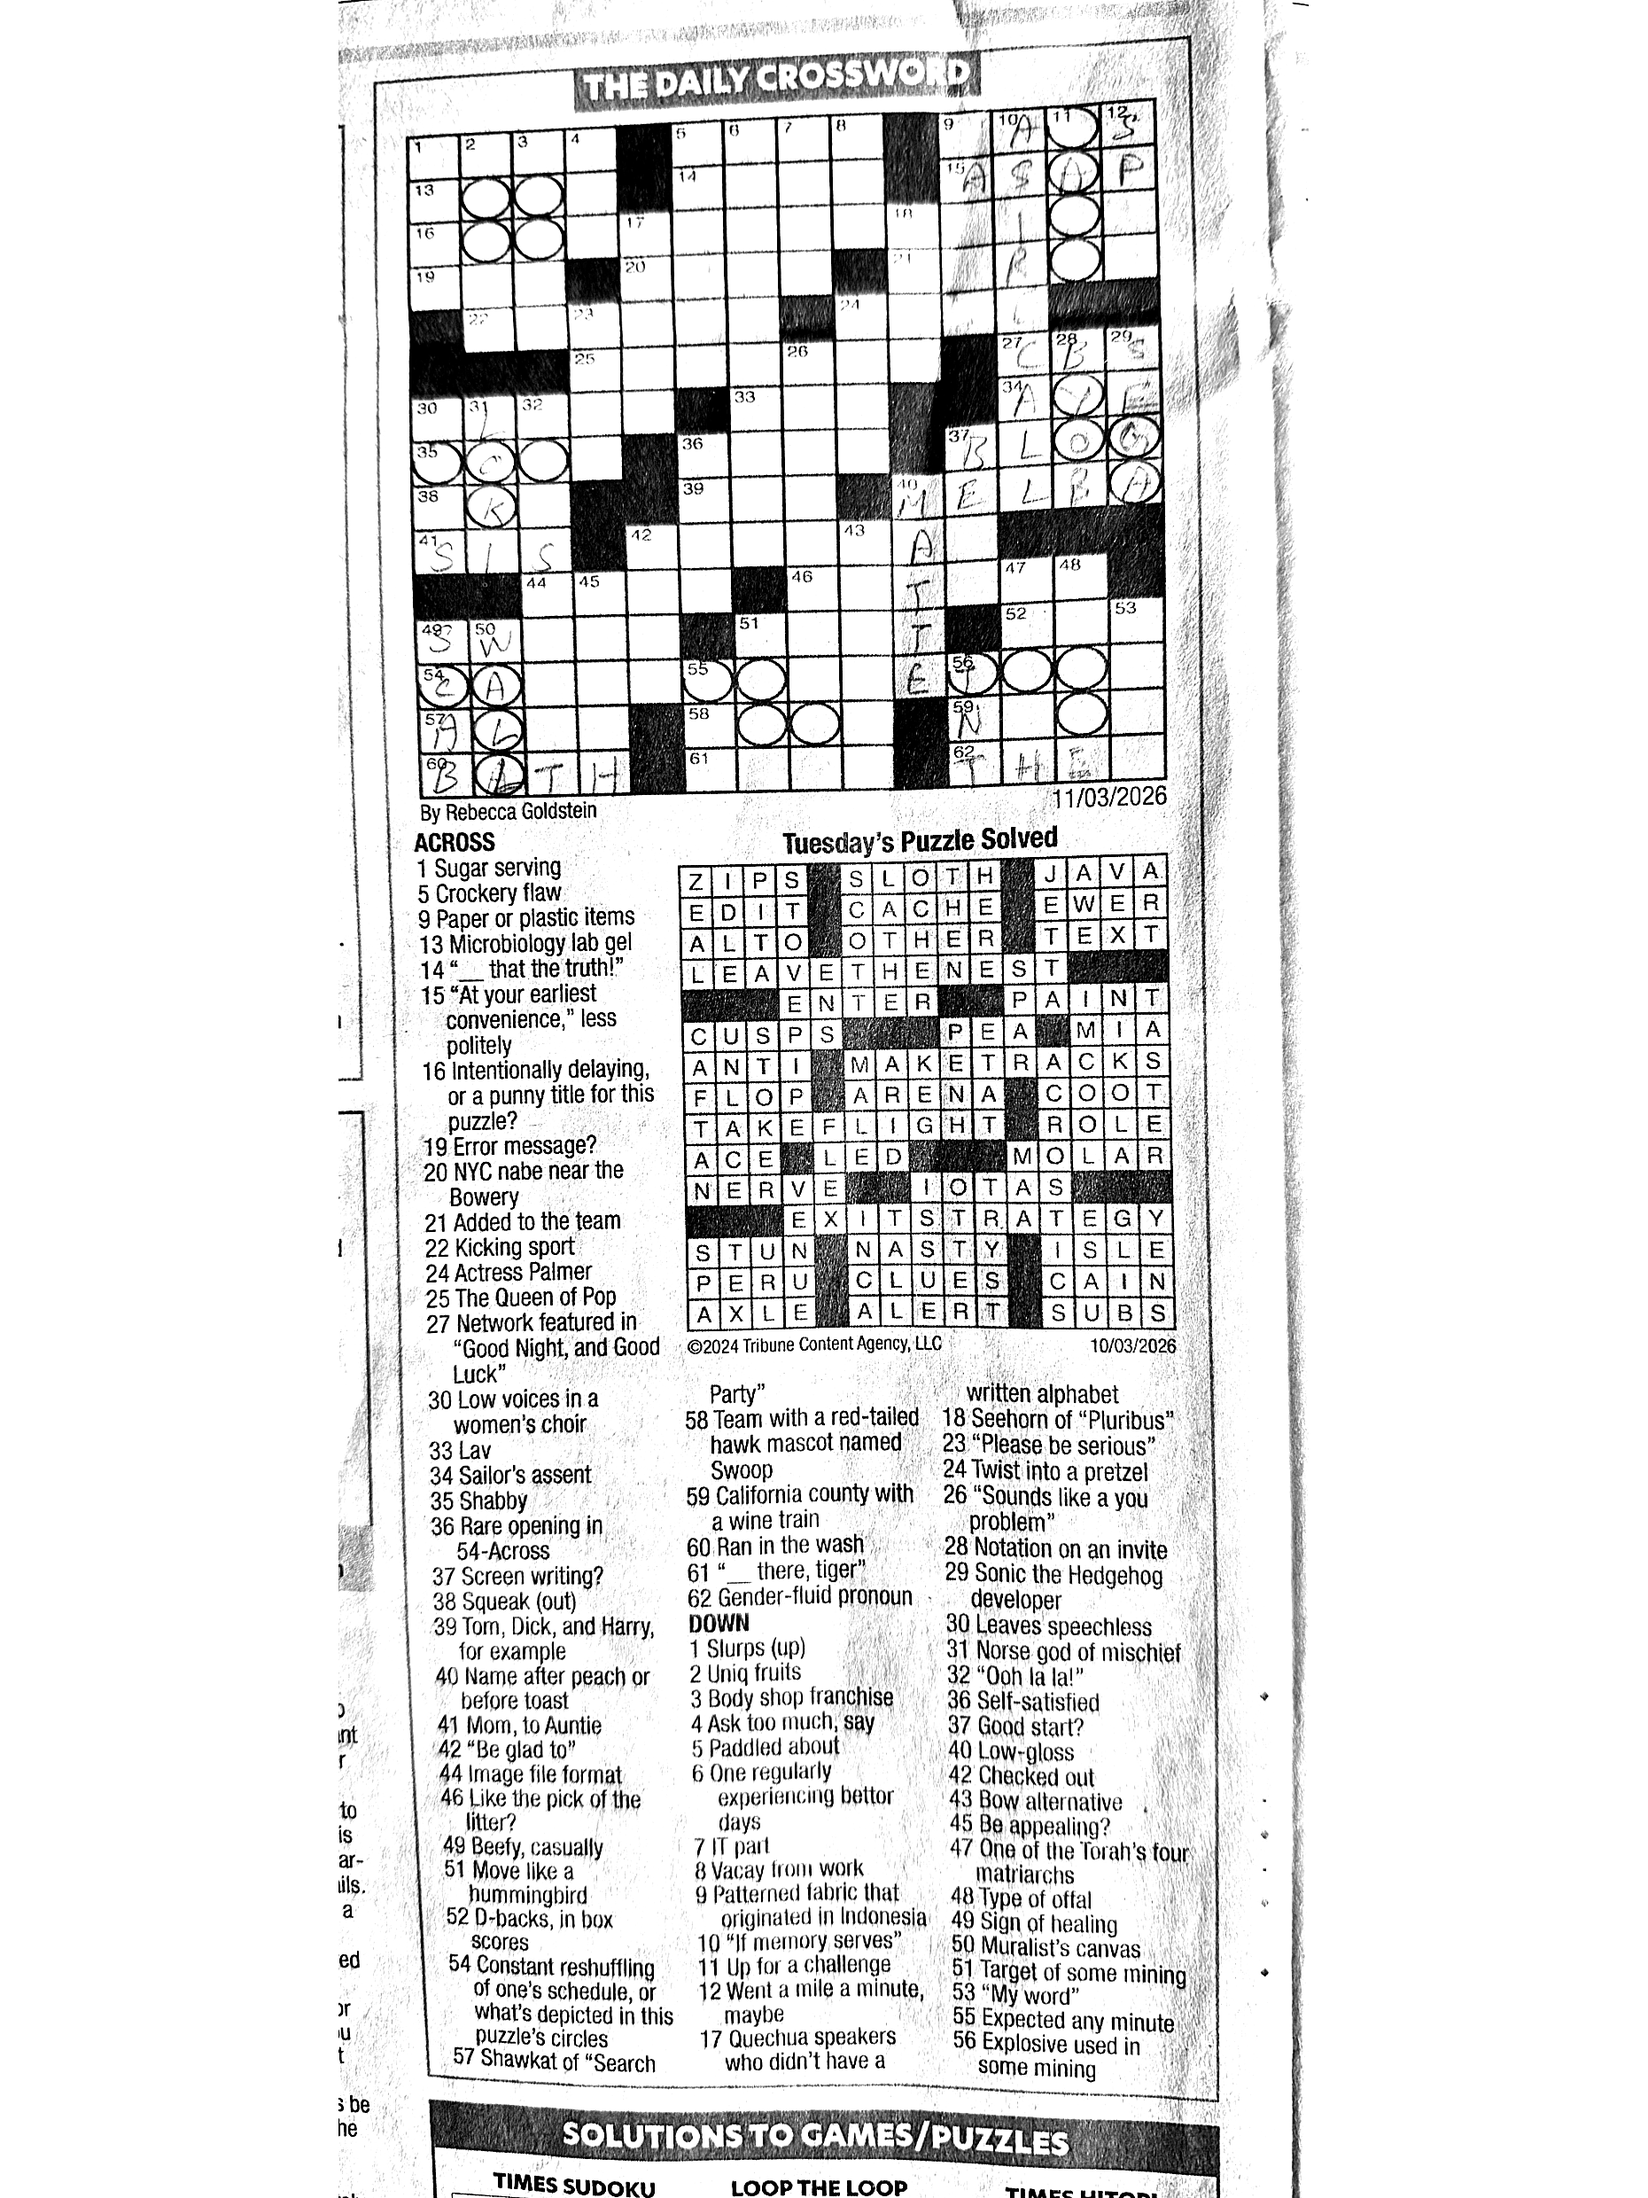
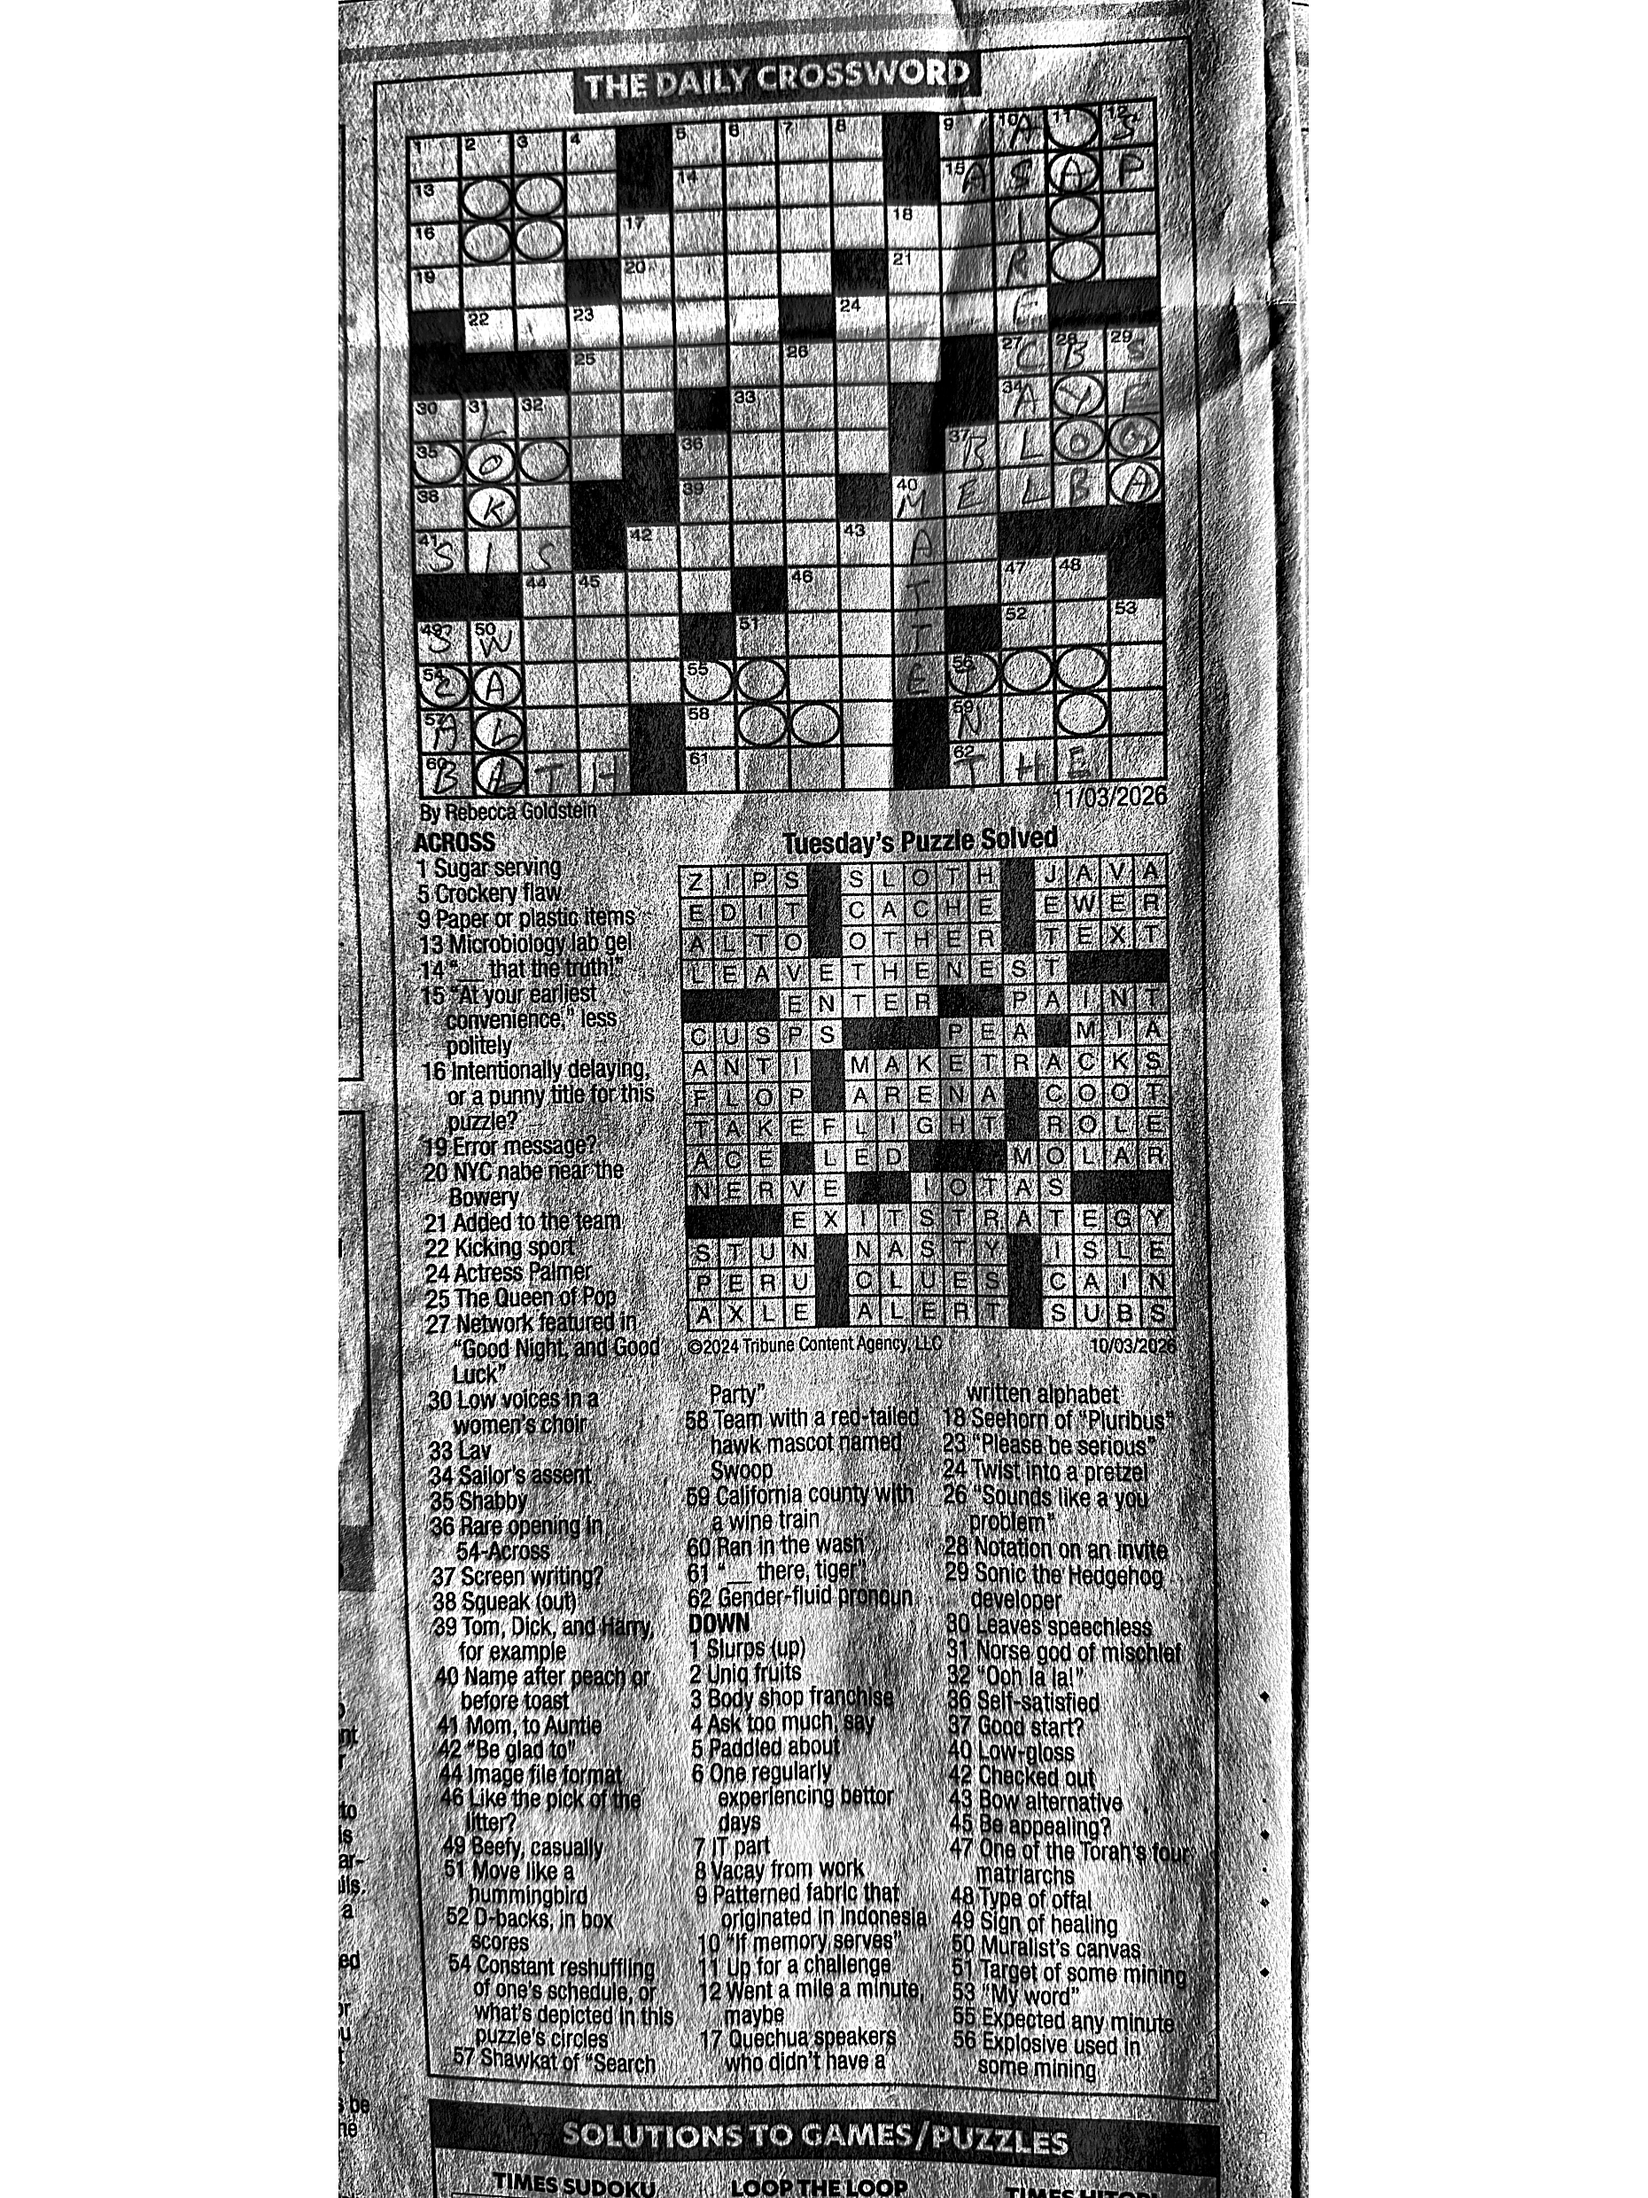
Switch to CLAHE + histogram stretch for newspaper crossword photos
- Replace background normalization with CLAHE (clipLimit=3.0)
- CLAHE enhances local contrast without destroying small clue numbers
- Simple histogram stretch after CLAHE for full dynamic range
- Better for newspaper photos with varying gray backgrounds

https://claude.ai/code/session_01BaJXRtzuHPrvpeiTFP3pVD

diff --git a/kindle-crossword/app/image_processor.py b/kindle-crossword/app/image_processor.py
@@ -45,10 +45,13 @@ def process_image(input_path: str, output_path: str, options: dict) -> dict:
 
     img = _to_grayscale(img)
 
-    # Background normalization — removes shadows, uneven lighting, newspaper tint
-    img = _normalize_background(img)
+    # CLAHE: local contrast enhancement that makes text/lines darker relative
+    # to their surrounding background. Works well for newspaper photos where
+    # the background varies but you want to preserve all detail.
+    clahe = cv2.createCLAHE(clipLimit=3.0, tileGridSize=(8, 8))
+    img = clahe.apply(img)
 
-    # Simple contrast boost — just stretch the histogram, no gamma tricks
+    # Stretch histogram so darkest goes to black, lightest to white
     img = _boost_contrast(img)
 
     # Resize for Kindle
